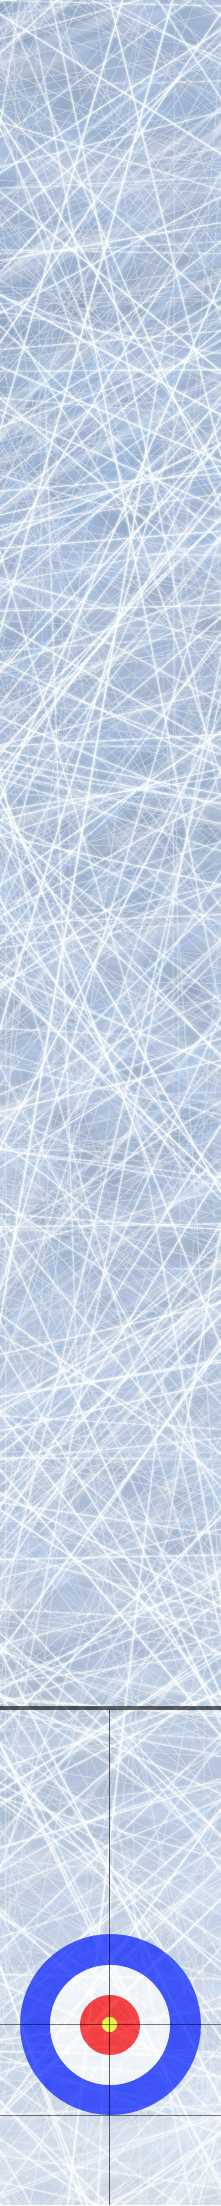
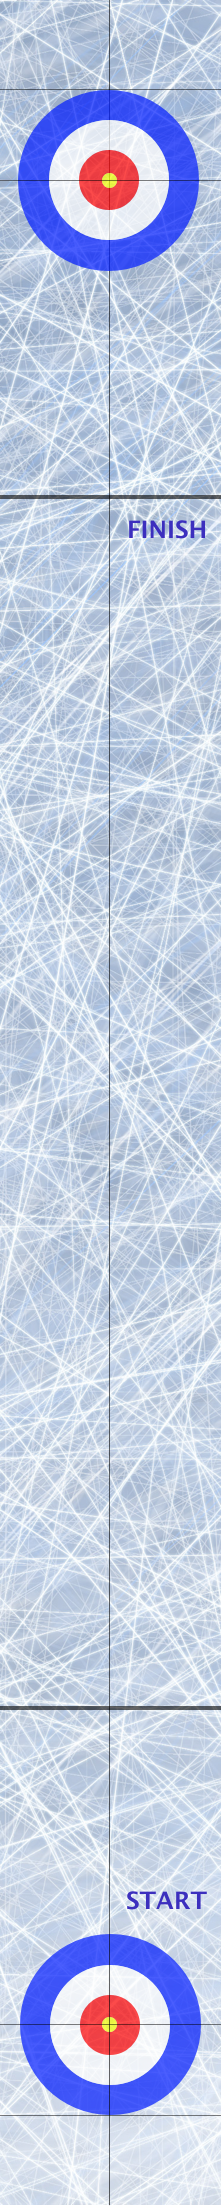
added new state changing added rotation fixed incorrect border and crashes

diff --git a/core/src/com/coursework/curling/states/StateManager.java b/core/src/com/coursework/curling/states/StateManager.java
@@ -54,16 +54,15 @@ public class StateManager {
 //        loadFromFile();
 
 
-        stones.add(PhysicalEntity.create(22, 450, Constants.STONE_SIZE, Constants.STONE_SIZE, "stone.png", screen));
+        stones.add(PhysicalEntity.create(22, 450, Constants.STONE_SIZE, Constants.STONE_SIZE, "stone_red.png", screen));
 
         int last = stones.size() - 1;
         stones.get(last).getBody().setLinearVelocity(0, 0);
-        stones.get(last).getBody().setTransform(22.5f, 450, stones.get(0).getBody().getAngle());
+        stones.get(last).getBody().setTransform(22.5f, 20, 0);
 
         state.setStone(stones.get(last));
 
-        screen.getCamera().position.set(this.screen.getCamera().viewportWidth / 2, 370 + this.screen.getCamera().viewportHeight / 2,0);
-        screen.getCamera().update();
+
         this.state = state;
     }
 
@@ -157,17 +156,25 @@ public class StateManager {
 //                entity = PhysicalEntity.create((int)entity.getX(), (int)entity.getY(), entity.getWidth(), entity.getHeight(), "stone.png", screen);
 //            }
 //        }
-        if ((stones.get(stones.size() - 1).getBody().getPosition().y < 380) && (stones.get(stones.size() - 1).getBody().getPosition().y > 40) && (this.state.getName() != "run")) {
-            this.setState(new RunState(this));
-        }
-        if ((stones.get(stones.size() - 1).getBody().getPosition().y < 40 && (stones.get(stones.size() - 1).getBody().getPosition().y > 0) && (this.state.getName() != "strike"))){
-            this.setState(new StrikeState(this));
-        }
-        if (stones.get(stones.size() - 1).getBody().getLinearVelocity().epsilonEquals(0f, 0f, 0.1f) && (this.state.getName() != "first")) {
-            addStone();
-        }
-        state.update(dt, stones);
-        state.render(dt, stones);
+//        if ((stones.get(stones.size() - 1).getBody().getPosition().y < 380) && (stones.get(stones.size() - 1).getBody().getPosition().y > 40) && (this.state.getName() != "run")) {
+//            this.setState(new RunState(this));
+//        }
+//        if ((stones.get(stones.size() - 1).getBody().getPosition().y < 40 && (stones.get(stones.size() - 1).getBody().getPosition().y > 0) && (this.state.getName() != "strike"))){
+//            this.setState(new StrikeState(this));
+//        }
+//        if (stones.get(stones.size() - 1).getBody().getLinearVelocity().epsilonEquals(0f, 0f, 1f) && (this.state.getName() != "first")) {
+//            addStone();
+//        }
+        state.update(dt);
+        state.render(dt);
+    }
+
+    public void setRunState() {
+        this.setState(new RunState(this));
+    }
+
+    public void setStrikeState() {
+        this.setState(new StrikeState(this));
     }
 
     public GameScreen getScreen() {

diff --git a/core/src/com/coursework/curling/states/RunState.java b/core/src/com/coursework/curling/states/RunState.java
@@ -37,26 +37,46 @@ class RunState extends State {
         return "run";
     }
 
+    private boolean isStoneInRange(PhysicalEntity stone) {
+
+        return stone.getBody().getPosition().y < 410;
+    }
+
+    private boolean isGoodSpeed(PhysicalEntity stone) {
+        return stone.getBody().getLinearVelocity().x > Constants.MINIMAL_RUN_STATE_SPEED ||
+                stone.getBody().getLinearVelocity().y > Constants.MINIMAL_RUN_STATE_SPEED;
+    }
+
     @Override
-    public void update(float dt, ArrayList<PhysicalEntity> stones) {
+    public void update(float dt) {
+
+        ArrayList<PhysicalEntity> stones = manager.getStones();
         deltaTime = dt;
         for (PhysicalEntity stone: stones) {
             Body body = stone.getBody();
             Sprite sprite = stone.getSprite();
 
             sprite.setPosition(body.getPosition().x - sprite.getWidth() / 2, body.getPosition().y - sprite.getHeight() / 2);
+            sprite.setOriginCenter();
+            sprite.setRotation((float) (180 * body.getAngle() / Math.PI));
         }
-//        sprite.setOriginCenter();
-//        sprite.setRotation((180 * body.getAngle())/3.14157f);
-        manager.getScreen().getCamera().position.y = stones.get(stones.size() - 1).getBody().getPosition().y;
+
+        manager.getScreen().getCamera().position.y = getLastStone().getBody().getPosition().y;
         manager.getScreen().getCamera().update();
+
+        if (!isStoneInRange(getLastStone()) || !isGoodSpeed(getLastStone())) {
+            manager.setStrikeState();
+        }
+
+
+
     }
 
     @Override
-    public void render(float dt, ArrayList<PhysicalEntity> stones) {
+    public void render(float dt) {
 
         Curling.batch.begin();
-        for (PhysicalEntity s: stones) {
+        for (PhysicalEntity s: manager.getStones()) {
             s.getSprite().draw(Curling.batch);
         }
         Curling.batch.end();

diff --git a/core/src/com/coursework/curling/states/FirstState.java b/core/src/com/coursework/curling/states/FirstState.java
@@ -26,6 +26,8 @@ public class FirstState extends State {
         Gdx.input.setInputProcessor(this);
 
         //stone = PhysicalEntity.create(100, 100, Constants.STONE_SIZE, Constants.STONE_SIZE, "stone.png", manager.getScreen());
+        manager.getScreen().getCamera().position.set(manager.getScreen().getCamera().viewportWidth / 2, manager.getScreen().getCamera().viewportHeight / 2,0);
+        manager.getScreen().getCamera().update();
     }
 
     @Override
@@ -72,24 +74,36 @@ public class FirstState extends State {
         return "first";
     }
 
+    private boolean isStoneInRange(PhysicalEntity stone) {
+
+        return stone.getBody().getPosition().y < 70;
+    }
+
     @Override
-    public void update(float dt, ArrayList<PhysicalEntity> stones) {
+    public void update(float dt) {
+
+        ArrayList<PhysicalEntity> stones = manager.getStones();
         deltaTime = dt;
         for (PhysicalEntity stone: stones) {
             Body body = stone.getBody();
             Sprite sprite = stone.getSprite();
 
             sprite.setPosition(body.getPosition().x - sprite.getWidth() / 2, body.getPosition().y - sprite.getHeight() / 2);
+            sprite.setOriginCenter();
+            sprite.setRotation((float) (180 * body.getAngle() / Math.PI));
+        }
+        if (!isStoneInRange(stones.get(stones.size() - 1)) && !Gdx.input.isTouched()) {
+            manager.setRunState();
         }
 //        sprite.setOriginCenter();
 //        sprite.setRotation((180*body.getAngle())/3.14157f);
     }
 
     @Override
-    public void render(float dt, ArrayList<PhysicalEntity> stones) {
+    public void render(float dt) {
 
         Curling.batch.begin();
-        for (PhysicalEntity s: stones) {
+        for (PhysicalEntity s: manager.getStones()) {
             s.getSprite().draw(Curling.batch);
         }
         Curling.batch.end();

diff --git a/core/src/com/coursework/curling/states/StrikeState.java b/core/src/com/coursework/curling/states/StrikeState.java
@@ -33,23 +33,41 @@ public class StrikeState extends State {
 
 
     @Override
-    public void update(float dt, ArrayList<PhysicalEntity> stones) {
+    public void update(float dt) {
         deltaTime = dt;
-        for (PhysicalEntity stone: stones) {
+        boolean stopped = true;
+
+        for (PhysicalEntity stone: manager.getStones()) {
             Body body = stone.getBody();
             Sprite sprite = stone.getSprite();
 
+            if (!body.getLinearVelocity().epsilonEquals(0f, 0f, 1f)) {
+                stopped = false;
+            }
             sprite.setPosition(body.getPosition().x - sprite.getWidth() / 2, body.getPosition().y - sprite.getHeight() / 2);
+            sprite.setOriginCenter();
+            sprite.setRotation((float) (180 * body.getAngle() / Math.PI));
+
         }
+
+        if (getLastStone().getBody().getPosition().y < Constants.FIELD_HEIGHT - manager.getScreen().getCamera().viewportHeight / 2) {
+            manager.getScreen().getCamera().position.y = getLastStone().getBody().getPosition().y;
+            manager.getScreen().getCamera().update();
+        }
+
+        if (stopped) {
+            manager.addStone();
+        }
+
 //        sprite.setOriginCenter();
 //        sprite.setRotation((180*body.getAngle())/3.14157f);
     }
 
     @Override
-    public void render(float dt, ArrayList<PhysicalEntity> stones) {
+    public void render(float dt) {
 
         Curling.batch.begin();
-        for (PhysicalEntity s: stones) {
+        for (PhysicalEntity s: manager.getStones()) {
             s.getSprite().draw(Curling.batch);
         }
         Curling.batch.end();

diff --git a/core/src/com/coursework/curling/states/State.java b/core/src/com/coursework/curling/states/State.java
@@ -17,8 +17,8 @@ public abstract class State implements InputProcessor, Serializable {
 
     protected StateManager manager;
 
-    public abstract void update(float dt, ArrayList<PhysicalEntity> stones);
-    public abstract void render(float dt, ArrayList<PhysicalEntity> stones);
+    public abstract void update(float dt);
+    public abstract void render(float dt);
 
     public  State(StateManager manager) {
         this.manager = manager;
@@ -73,5 +73,9 @@ public abstract class State implements InputProcessor, Serializable {
     @Override
     public boolean scrolled(int amount) {
         return false;
+    }
+
+    public PhysicalEntity getLastStone() {
+        return manager.getStones().get(manager.getStones().size() - 1);
     }
 }

diff --git a/core/src/com/coursework/curling/screens/GameScreen.java b/core/src/com/coursework/curling/screens/GameScreen.java
@@ -73,7 +73,7 @@ public class GameScreen implements Screen {
         addBorder(-10, 0, 10, Constants.FIELD_HEIGHT);
         addBorder(Constants.FIELD_WIDTH + 10, 0, 10, Constants.FIELD_HEIGHT);
         addBorder(0, -10, Constants.FIELD_WIDTH, 10);
-        addBorder(0, Constants.FIELD_HEIGHT, Constants.FIELD_WIDTH, 10);
+        addBorder(0, Constants.FIELD_HEIGHT + 10, Constants.FIELD_WIDTH, 10);
 
     }
 

diff --git a/core/src/com/coursework/curling/models/PhysicalEntity.java b/core/src/com/coursework/curling/models/PhysicalEntity.java
@@ -39,7 +39,6 @@ public class PhysicalEntity extends Entity {
         fixtureDef.density = 1.0f;
         fixtureDef.friction = .25f;
         body.createFixture(fixtureDef);
-
         stone.setBody(body);
         return stone;
     }

diff --git a/core/src/com/coursework/curling/common/Constants.java b/core/src/com/coursework/curling/common/Constants.java
@@ -7,4 +7,6 @@ public final class Constants {
     public static final float STONE_SIZE = 6;
     public static final float SPEED_MULTIPLIER = 0.5f;
 
+    public static final float MINIMAL_RUN_STATE_SPEED = 10f;
+
 }
